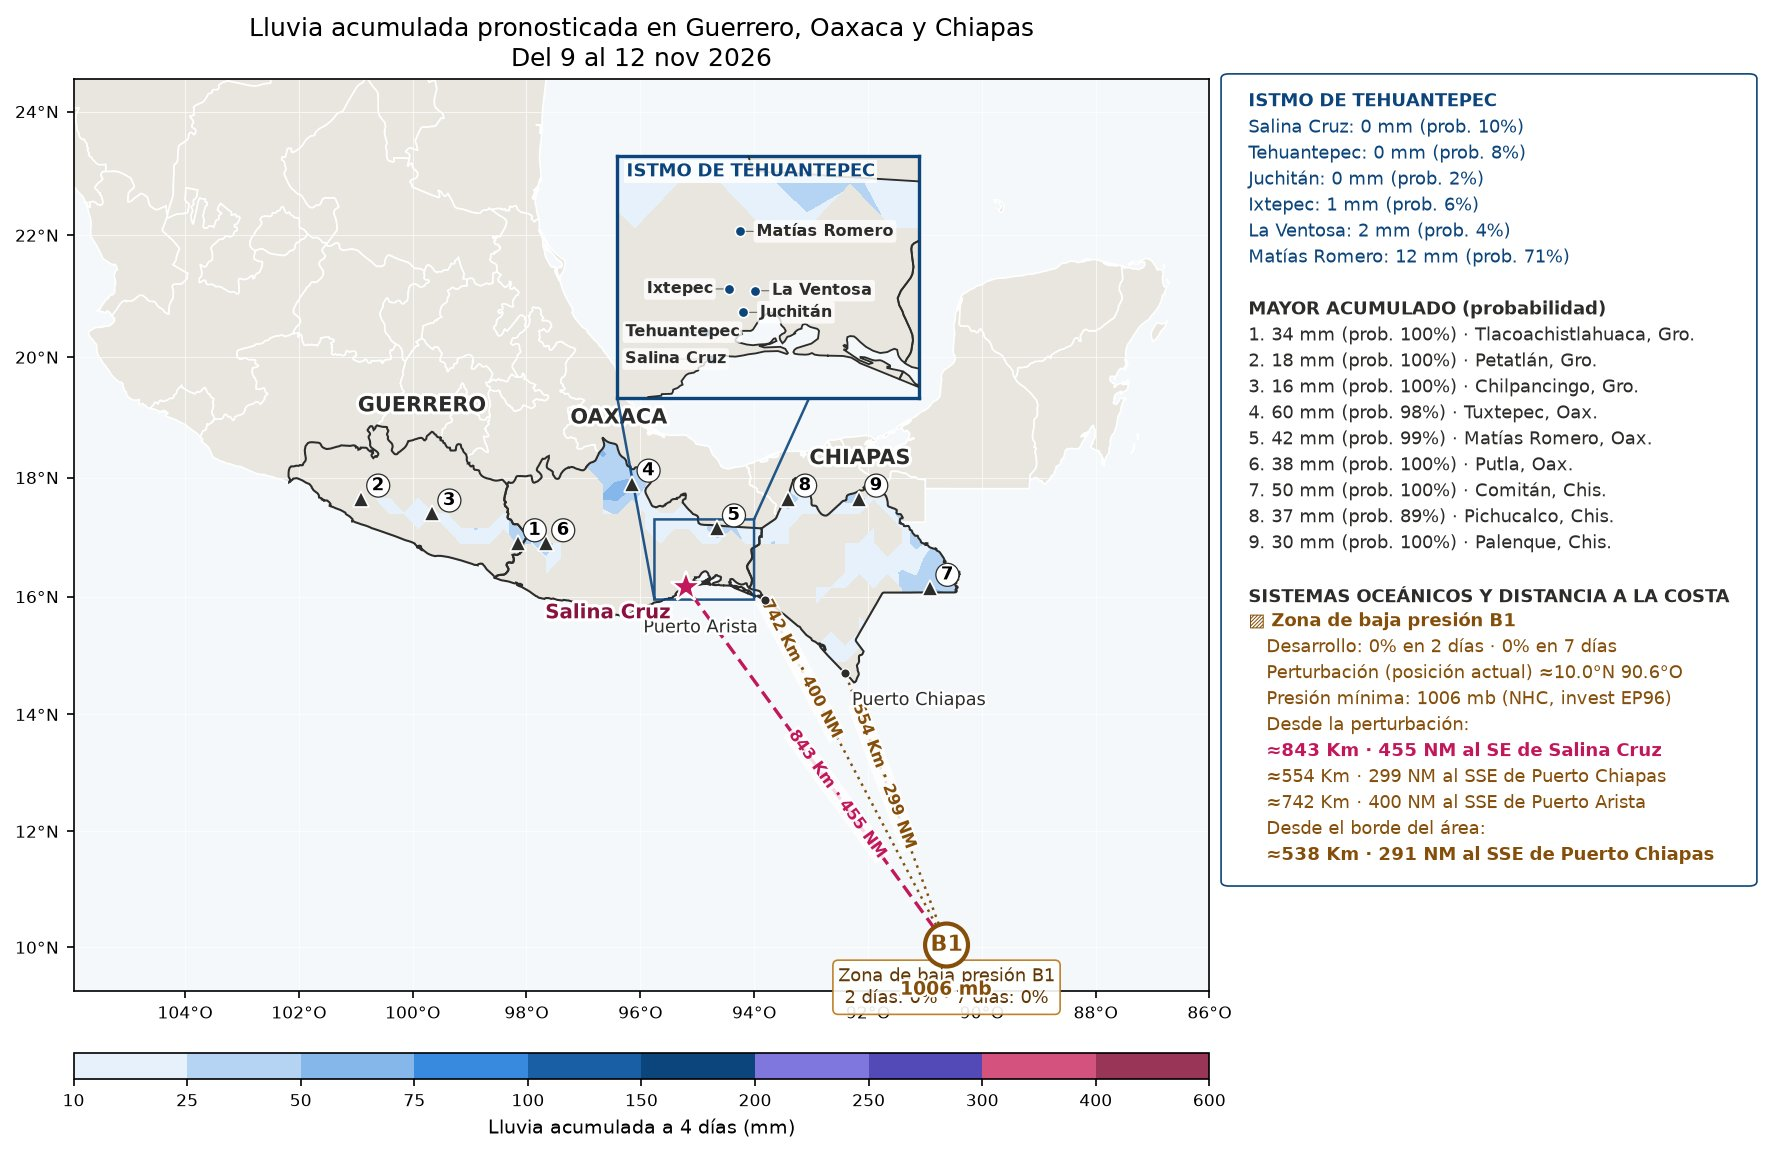
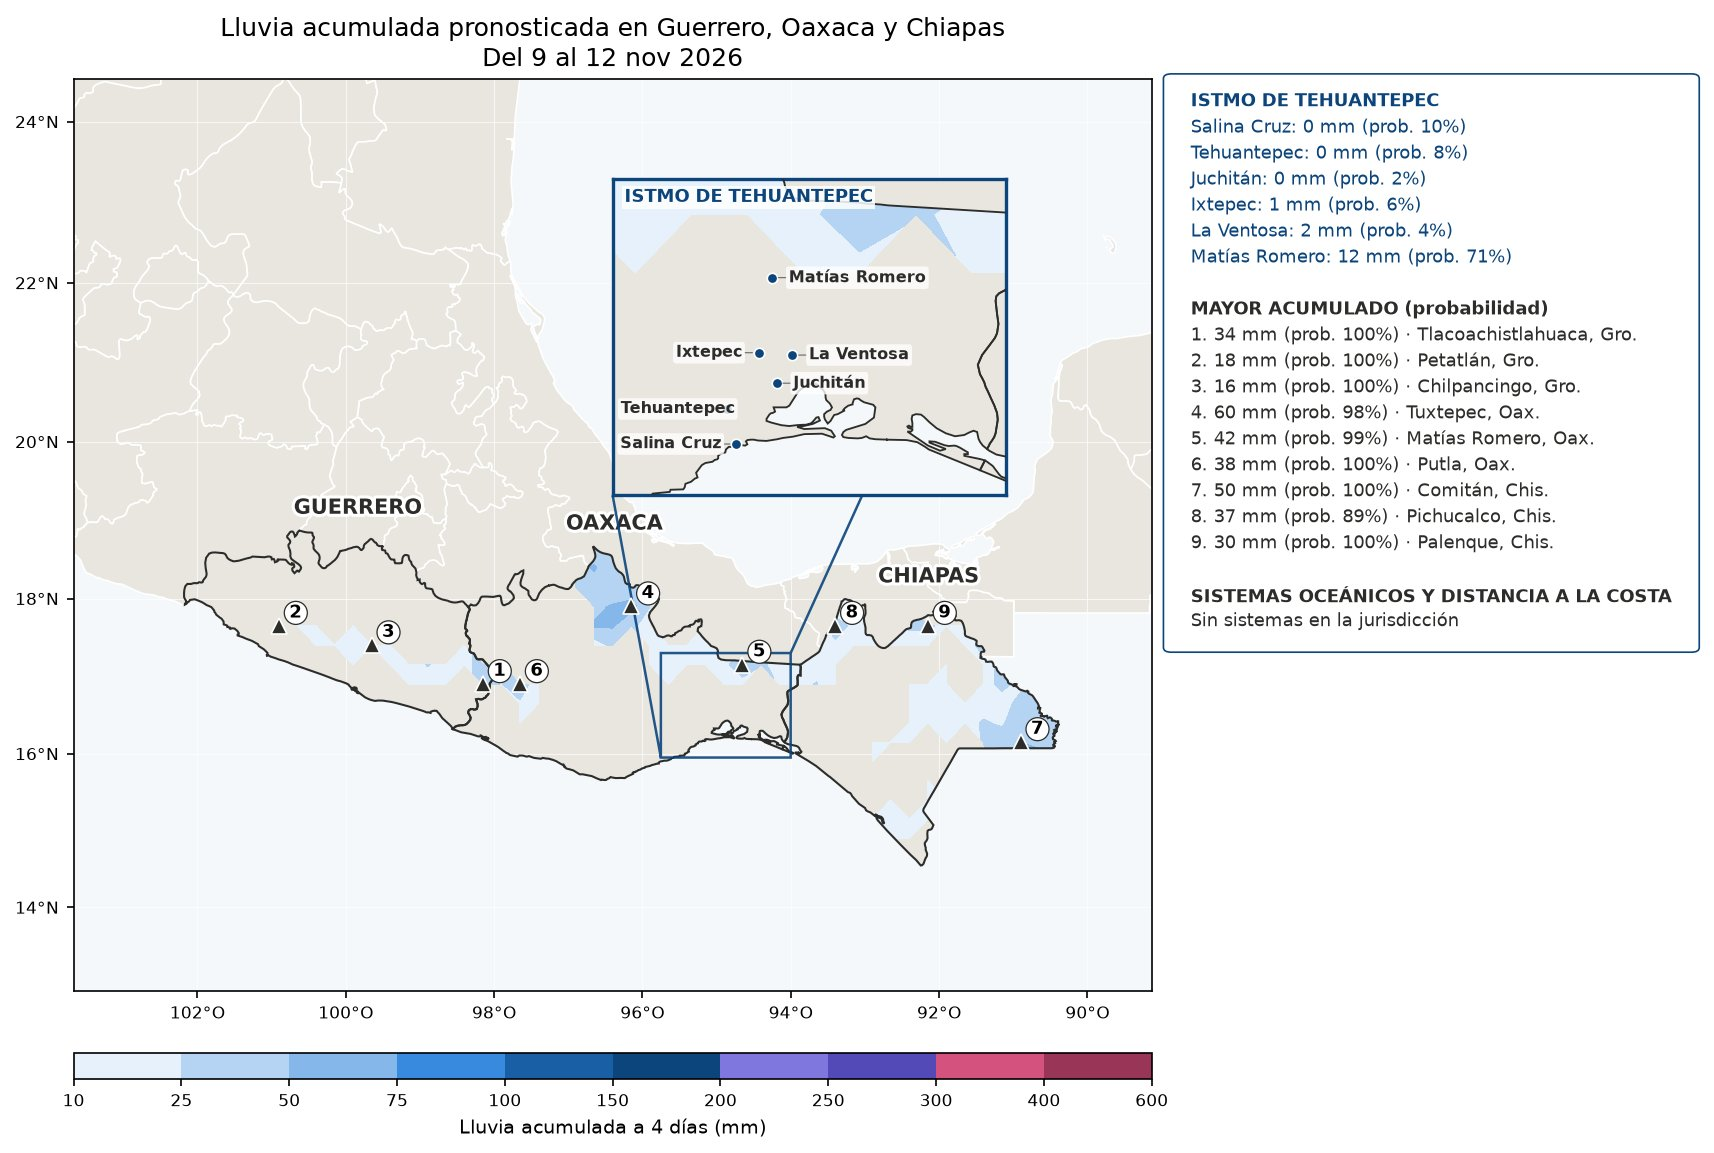
Monitor 09/11 17:17 (mapas nuevos)

diff --git a/index.html b/index.html
@@ -62,7 +62,7 @@ pre{overflow-x:auto;font-size:.75rem;background:var(--bg);padding:10px;border-ra
 <section class="t" id="sec_log"><details><summary>Registro (últimas líneas)</summary><pre id="log"></pre></details></section>
 </main>
 <div id="zoom"><img alt=""></div>
-<script id="datos" type="application/json">{"generado": "2026-11-09T16:47:04.680290", "ultima_revision": "2026-11-09T16:47:04.607782", "decision": "sin cambios", "ultima_imagen": "2026-11-09T14:47:33.009402", "motivo_imagen": "cambios acumulados en 3 h: modelo", "pendientes": [], "intervalo_h": 3, "resumen": {"ciclones": {}, "zonas": [{"lat": 10.0, "lon": -90.6, "n": "1", "p2": 0, "p7": 0}]}, "historial": [{"fecha": "2026-11-07T18:27:20.258510", "motivo": "cambios acumulados en 3 h: zonas"}, {"fecha": "2026-11-07T21:40:22.583808", "motivo": "cambios acumulados en 3 h: modelo"}, {"fecha": "2026-11-08T00:47:17.451399", "motivo": "cambios acumulados en 3 h: zonas"}, {"fecha": "2026-11-08T04:00:21.943178", "motivo": "cambios acumulados en 3 h: modelo"}, {"fecha": "2026-11-08T07:10:12.202337", "motivo": "cambios acumulados en 3 h: zonas, modelo"}, {"fecha": "2026-11-08T11:37:16.901767", "motivo": "cambios acumulados en 3 h: zonas"}, {"fecha": "2026-11-08T14:50:18.399051", "motivo": "cambios acumulados en 3 h: modelo"}, {"fecha": "2026-11-08T17:37:16.585322", "motivo": "CAMBIO SIGNIFICATIVO: zona de baja presión: 20/20% → 30/30% (2/7 días)"}, {"fecha": "2026-11-08T20:50:15.463240", "motivo": "cambios acumulados en 3 h: modelo"}, {"fecha": "2026-11-08T23:37:17.383530", "motivo": "CAMBIO SIGNIFICATIVO: zona de baja presión: 30/30% → 20/20% (2/7 días)"}, {"fecha": "2026-11-09T02:50:07.672834", "motivo": "cambios acumulados en 3 h: modelo"}, {"fecha": "2026-11-09T05:37:16.021877", "motivo": "CAMBIO SIGNIFICATIVO: zona de baja presión: 20/20% → 10/10% (2/7 días)"}, {"fecha": "2026-11-09T08:50:13.596695", "motivo": "cambios acumulados en 3 h: modelo"}, {"fecha": "2026-11-09T11:27:16.956218", "motivo": "CAMBIO SIGNIFICATIVO: zona de baja presión: 10/10% → 0/0% (2/7 días)"}, {"fecha": "2026-11-09T14:47:33.009402", "motivo": "cambios acumulados en 3 h: modelo"}], "imagenes": {"lluvia": {"src": "lluvia.jpg?v=202611091447", "fecha": "2026-11-09T14:47:26.251256"}, "viento": {"src": "viento.jpg?v=202611091447", "fecha": "2026-11-09T14:47:31.314234"}}, "log": [], "umbral_av": 50, "umbral_mal": 110}</script>
+<script id="datos" type="application/json">{"generado": "2026-11-09T17:17:13.827284", "ultima_revision": "2026-11-09T17:17:13.762624", "decision": "imágenes generadas", "ultima_imagen": "2026-11-09T17:17:13.762624", "motivo_imagen": "CAMBIO SIGNIFICATIVO: una zona de baja presión dejó de afectar la jurisdicción", "pendientes": [], "intervalo_h": 3, "resumen": {"ciclones": {}, "zonas": []}, "historial": [{"fecha": "2026-11-07T21:40:22.583808", "motivo": "cambios acumulados en 3 h: modelo"}, {"fecha": "2026-11-08T00:47:17.451399", "motivo": "cambios acumulados en 3 h: zonas"}, {"fecha": "2026-11-08T04:00:21.943178", "motivo": "cambios acumulados en 3 h: modelo"}, {"fecha": "2026-11-08T07:10:12.202337", "motivo": "cambios acumulados en 3 h: zonas, modelo"}, {"fecha": "2026-11-08T11:37:16.901767", "motivo": "cambios acumulados en 3 h: zonas"}, {"fecha": "2026-11-08T14:50:18.399051", "motivo": "cambios acumulados en 3 h: modelo"}, {"fecha": "2026-11-08T17:37:16.585322", "motivo": "CAMBIO SIGNIFICATIVO: zona de baja presión: 20/20% → 30/30% (2/7 días)"}, {"fecha": "2026-11-08T20:50:15.463240", "motivo": "cambios acumulados en 3 h: modelo"}, {"fecha": "2026-11-08T23:37:17.383530", "motivo": "CAMBIO SIGNIFICATIVO: zona de baja presión: 30/30% → 20/20% (2/7 días)"}, {"fecha": "2026-11-09T02:50:07.672834", "motivo": "cambios acumulados en 3 h: modelo"}, {"fecha": "2026-11-09T05:37:16.021877", "motivo": "CAMBIO SIGNIFICATIVO: zona de baja presión: 20/20% → 10/10% (2/7 días)"}, {"fecha": "2026-11-09T08:50:13.596695", "motivo": "cambios acumulados en 3 h: modelo"}, {"fecha": "2026-11-09T11:27:16.956218", "motivo": "CAMBIO SIGNIFICATIVO: zona de baja presión: 10/10% → 0/0% (2/7 días)"}, {"fecha": "2026-11-09T14:47:33.009402", "motivo": "cambios acumulados en 3 h: modelo"}, {"fecha": "2026-11-09T17:17:13.762624", "motivo": "CAMBIO SIGNIFICATIVO: una zona de baja presión dejó de afectar la jurisdicción"}], "imagenes": {"lluvia": {"src": "lluvia.jpg?v=202611091717", "fecha": "2026-11-09T17:17:07.929100"}, "viento": {"src": "viento.jpg?v=202611091717", "fecha": "2026-11-09T17:17:12.417612"}}, "log": [], "umbral_av": 50, "umbral_mal": 110}</script>
 <script>
 const D = JSON.parse(document.getElementById("datos").textContent);
 const $ = id => document.getElementById(id);
